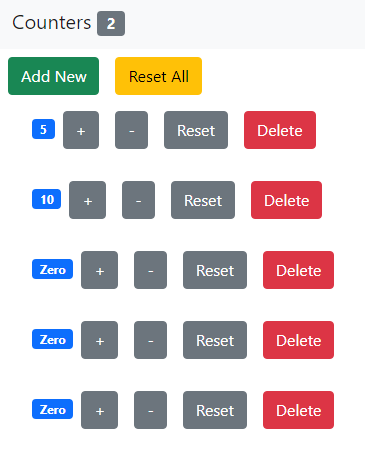
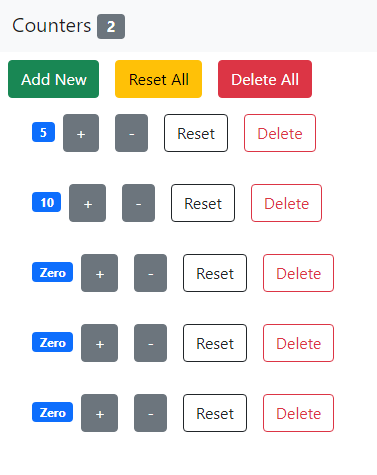
components modified

diff --git a/src/components/app.component.jsx b/src/components/app.component.jsx
@@ -3,6 +3,7 @@ import Navbar from './navbar.component';
 import Counters from './counters.component';
 import ResetButton from './resetButton.components';
 import AddNewButton from './addNewButton.component';
+import DeleteAllButton from './deleteAllButton.component';
 
 class App extends Component {
     state = {
@@ -29,12 +30,17 @@ class App extends Component {
         ];
         this.setState({ counters: newCountersState });
     };
+
     handleAllReset = () => {
         const allCounterReset = this.state.counters.map((counter, index) => {
             const obj = { id: index, value: 0 };
             return obj;
         });
         this.setState({ counters: allCounterReset });
+    };
+
+    handleDeleteAll = () => {
+        this.setState({ counters: [] });
     };
 
     handleIncrement = (id) => {
@@ -77,6 +83,7 @@ class App extends Component {
                 <Navbar nonZeroItems={this.getNonZeroItems()} />
                 <AddNewButton onAddNew={this.handleAddNew} />
                 <ResetButton onAllReset={this.handleAllReset} />
+                <DeleteAllButton onDeleteAll={this.handleDeleteAll} />
                 <Counters
                     counters={this.state.counters}
                     onIncrement={this.handleIncrement}

diff --git a/src/components/counter.component.jsx b/src/components/counter.component.jsx
@@ -40,7 +40,7 @@ class Counter extends Component {
                                     )
                                 }
                                 type="button"
-                                class="btn btn-secondary m-2"
+                                class="btn btn-outline-dark m-2"
                             >
                                 Reset
                             </button>
@@ -49,7 +49,7 @@ class Counter extends Component {
                                     this.props.onDelete(this.props.id)
                                 }
                                 type="button"
-                                class="btn btn-danger m-2"
+                                class="btn btn-outline-danger m-2"
                             >
                                 Delete
                             </button>

diff --git a/src/components/deleteAllButton.component.jsx b/src/components/deleteAllButton.component.jsx
@@ -1,0 +1,17 @@
+import React, { Component } from 'react';
+
+class DeleteAllButton extends Component {
+    render() {
+        return (
+            <button
+                onClick={this.props.onDeleteAll}
+                type="button"
+                class="btn btn-danger m-2"
+            >
+                Delete All
+            </button>
+        );
+    }
+}
+
+export default DeleteAllButton;

diff --git a/README.md b/README.md
@@ -1,6 +1,3 @@
-![Counter App](https://user-images.githubusercontent.com/73344827/130710714-1715064c-eab1-4269-9188-b00c7f7a0be6.png)
-
-
 # Getting Started with Create React App
 
 This project was bootstrapped with [Create React App](https://github.com/facebook/create-react-app).
